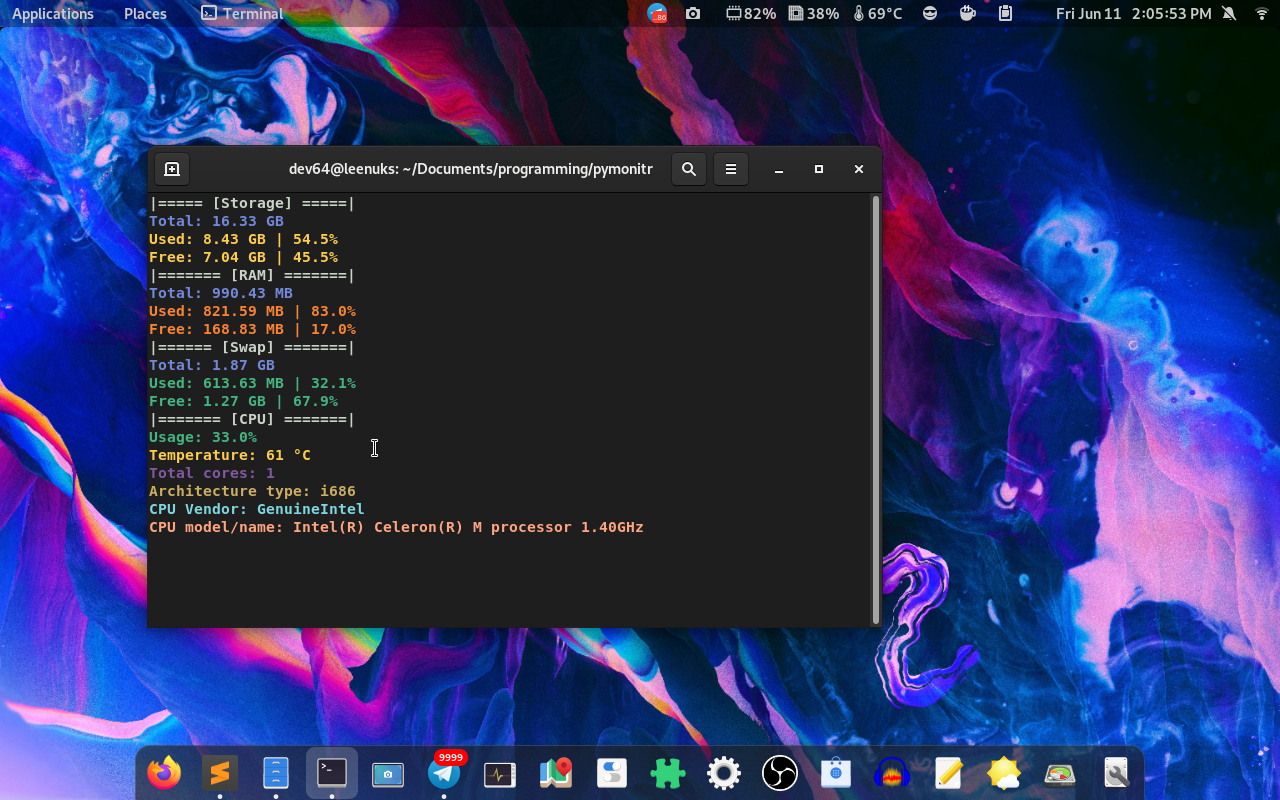
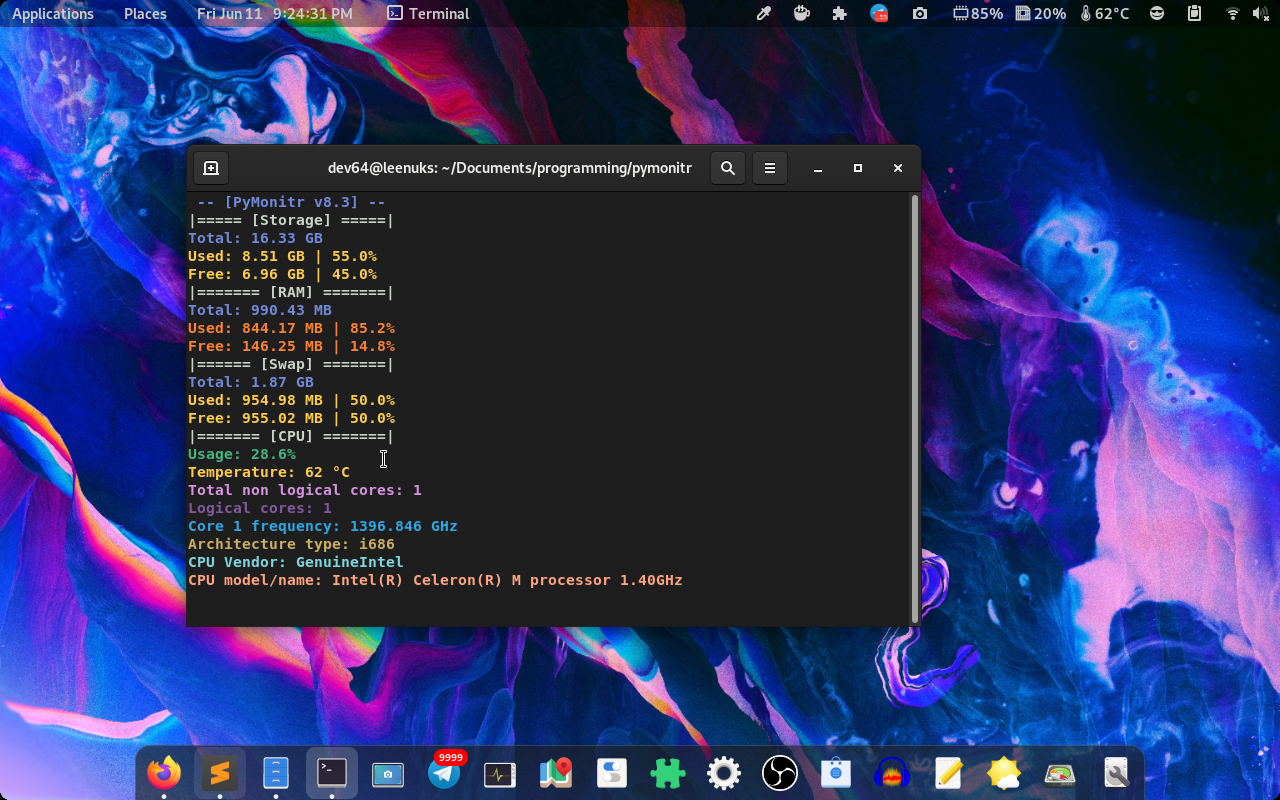
Add files via upload

diff --git a/pymn_v8.3.py b/pymn_v8.3.py
@@ -51,7 +51,7 @@ from colorhex import colorex, BOLD, BLINKING, UNDERLINE, ITALIC
 CPU_VENDOR = check_output("lscpu | grep 'Vendor ID' | cut -f 2 -d ':' | awk '{$1=$1}1' | tr '\n', ' '", shell=True, text=True)
 CPU_MODEL = check_output("lscpu | grep 'Model name' | cut -f 2 -d ':' | awk '{$1=$1}1' | tr '\n', ' '", shell=True, text=True)
 ARCH_TYPE = check_output("uname -m | tr '\n', ' '", shell=True, text=True)
-VERSION = 'v8'
+VERSION = 'v8.3'
 
 flag = ArgumentParser('python3 pymn.py')
 flag.add_argument('-r', type=int, default=1, help='How many seconds should the program refresh the stats (Default is 1). Example: pymn.py -r 2. Float numbers are not allowed.')
@@ -207,7 +207,17 @@ def monitr():
 		except:
 			print(colorex('Temperature: Could not read temperature', 'f04947', style=BOLD))
 
-		print(colorex(f'Total cores: {cpu_count()}', '82589f', style=BOLD))
+		print(colorex(f'Total non logical cores: {cpu_count(logical=False)}', 'd892e2', style=BOLD))
+		print(colorex(f'Logical cores: {cpu_count(logical=True)}', '82589f', style=BOLD))
+
+		corenum = 0
+
+		for core in cpu:
+			for ccore in range(1):
+				corenum += 1
+			
+			print(colorex(f'Core {corenum} frequency: {core[0]} GHz', '2fa7e3', style=BOLD)) # ADD RANDOM COLORS HERE
+
 		print(colorex(f'Architecture type: {ARCH_TYPE}', 'ccae62', style=BOLD))
 		print(colorex(f'CPU Vendor: {CPU_VENDOR}', '7ed6df', style=BOLD))
 		print(colorex(f'CPU model/name: {CPU_MODEL}', 'FEA47F', style=BOLD))

diff --git a/readme.md b/readme.md
@@ -1,26 +1,39 @@
 # PyMonitr, a simple system monitor for your linux computer!!
-### **Do you want to monitor your RAM, storage, swap & CPU usage easily & quickly? PyMonitr is here for you!!**
-### **With PyMonitr you can:**
+### **But why PyMonitr??**
+### **Because with PyMonitr you can:**
 1. **Monitor your RAM, CPU, storage ('/') & swap usage,**
-2. **Get information about your CPU, such as:**
+2. **AND information about your CPU, such as:**
 + **Usage,**
 + **Temperature,**
-+ **Total cores,**
++ **Total logical & non logical cores,**
 + **Architecture type,**
 + **CPU vendor &**
-+ **CPU model**
++ **CPU model EASILY!!**
 
-# Screenshot:
-### ***Yes, these infos are REAL, theyre not fake or modified!!***
-![Image](img.png)
+# Any screenshots??:
+### **Sure**
+![screenshot 1](img.png)
 
 # Requirements
-### **[psutil](https://pypi.org/project/psutil/) and [colorhex](https://pypi.org/project/colorhex/) are required, otherwise this program cant run lol**
+### **[psutil](https://pypi.org/project/psutil/) and [colorhex](https://pypi.org/project/colorhex/) are required**
 ### **install using:**
 + **pip3 install psutil colorhex**
 
-# Which file to use
-### **Now there are a lot of files/different versions, but i suggest you to use the latest, which is 8!**
+# How to use
+### **Make sure you have installed the requirements (or you can just ignore this step, and let the program itself install the requirements), and then either git clone the repo, or click the green download button and click download as zip. After that youll see some files (pymn_v1, v2, v3 etc). You can run them by opening the terminal on the folder, and doing "python3 pymn_v?.py" (make sure youre using python3.6+!!). The current LATEST version is 8.3, so i suggest you to use 8.3!**
 
-# ***lol***
-### **I know, the code looks pretty bad, and there could be a lot of ways to make it better, but IM NOT experienced, ***so please dont make fun of me,*** but tell how i could fix & make it better**
+# Oh, and...
+### **You can control the "update interval (or whatever its called)", how many seconds should the progrm wait to refresh the information. By default, its 1 second. You can change it by using the "r flag". Example:**
++ **python3 pymn_v8.3.py -r 2 for 2 seconds, -r 3 for 3 sconds etc**
+
+# Changelog??
+### **If you want to see whats new or what have i changed on all these versions, you can check the changelog.md file!!**
+
+# NOTE!
+### **The program sadly CANNOT display the CPU temperature if youre using a AMD CPU. Im currently trying to fix this. If you know any way to fix this, you can open a issue**
+
+# Which file should i use?
+### **Now there are a lot of files/different versions, but i suggest you to use the latest, which is 8.3!**
+
+# ***...***
+### **I know, the code looks pretty bad, and there could be a lot of ways to make it better, but IM NOT experienced, ***so please dont make fun of me!!*** What you could do instead is helping & making this program better :)**

diff --git a/changelog.md b/changelog.md
@@ -48,7 +48,15 @@
 2. **Added CPU temperature, which MIGHT NOT be accurate, because im using a laptop that has 1 core (yes, 1 core, im not joking...). The program also reads the "/sys/class/thermal/thermal_zone0/temp" file to get the temperature. If you have any better idea to do this, you can open a issue or something *idk lol***
 
 #### Version: 8
-1. **1) Added CPU vendor & new color,**
+1. **Added CPU vendor & new color,**
 2. **Added arguments/flags to control refresh time for the stats,**
 3. **Added a exception in case CPU temperature cannot be read,**
 4. **The program now will ask you to install the required packages incase you havent installed them, which are: [psutil](https://pypi.org/project/psutil/) and [colorhex](https://pypi.org/project/colorhex/)**
+
+#### Version: 8.3
+1. **Added back the CPU frequencies. Now you can see each cores frequency**
+2. **Added apps version at the top**
+3. **Changed "Total cores" to:**
+	**+ Total non logical cores &**
+	**+ Total logical cores**
+4. **New colors to some fields**
